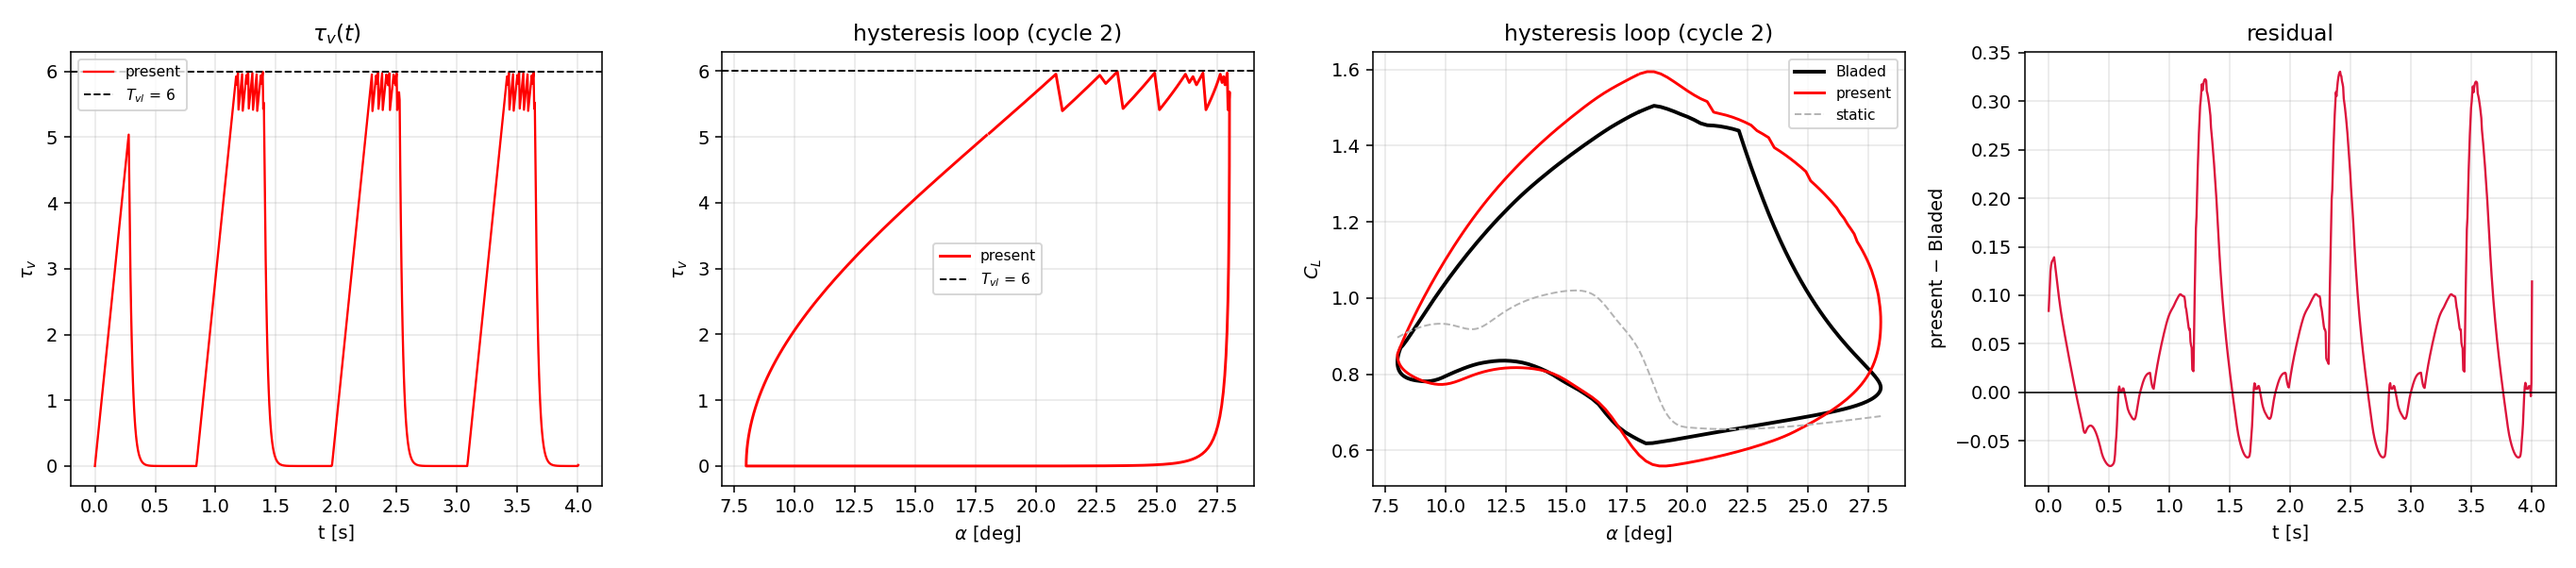
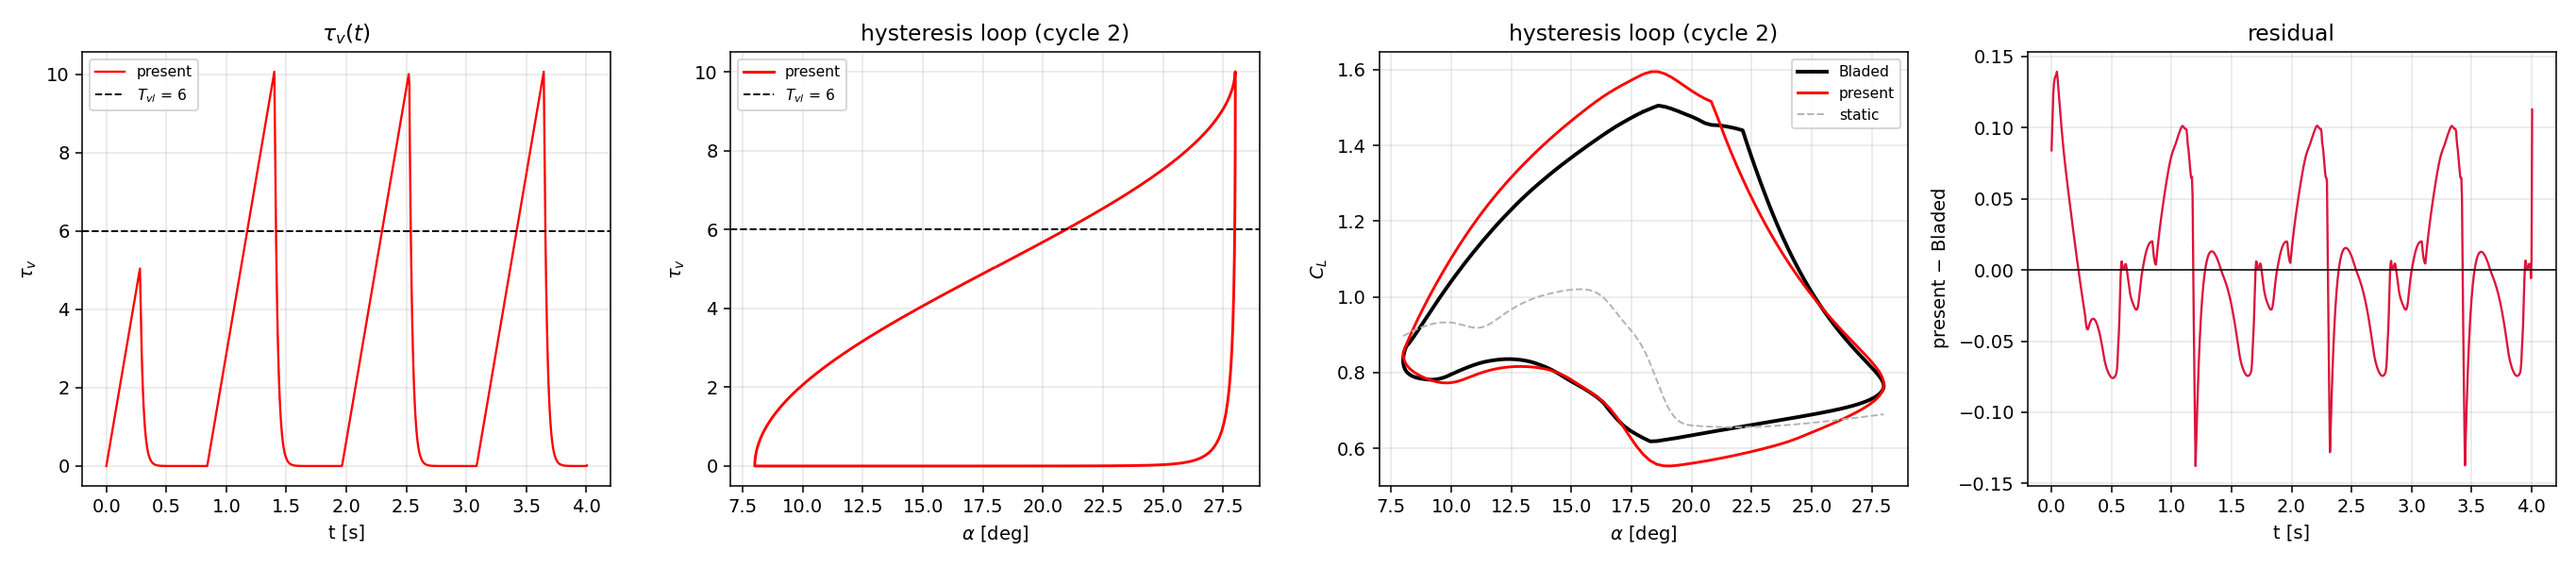
IAG state-space: vortex clock tau_v as 6th state (Eq 48/49)

diff --git a/IAG.py b/IAG.py
@@ -62,6 +62,10 @@ class IAG:
         cn_i = 4 * self.K_a * self.chord / max(V, 1e-9) * alpha_dot       
         a_f = self.a0 + y[2] / self.dCN                                 
         return a_e, cn_c, cn_i, a_f
+    
+    def stalled(self, y, alpha, alpha_dot, V):
+        """Vortex generation: upstroke and above the critical load."""
+        return alpha_dot > 0 and y[2] > self.CN_crit
 
     def vortex_on(self, y, alpha, alpha_dot, V):
         return alpha_dot > 0 and y[2] > self.CN_crit and y[5] < self.T_vl
@@ -69,7 +73,7 @@ class IAG:
 
     def clock(self, y, alpha, alpha_dot, V):
         r = V / self.chord
-        return 0.45 * r if self.vortex_on(y, alpha, alpha_dot, V) else -r * y[5]
+        return 0.45 * r if self.stalled(y, alpha, alpha_dot, V) else -r * y[5]
 
     def y0(self, alpha, V):
         x3 = self.dCN * np.sin(alpha - self.a0)
